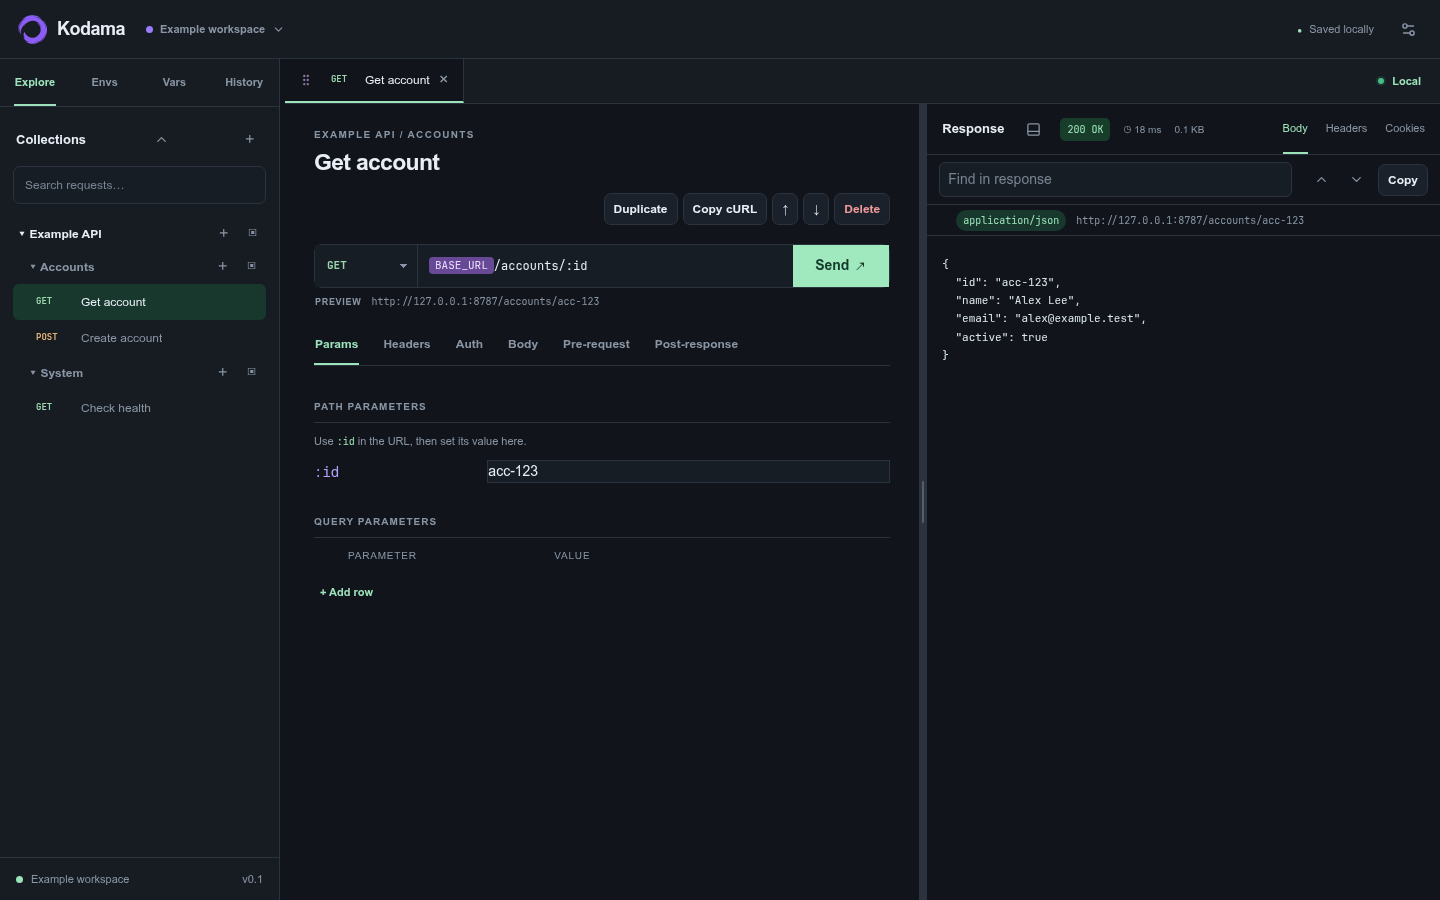
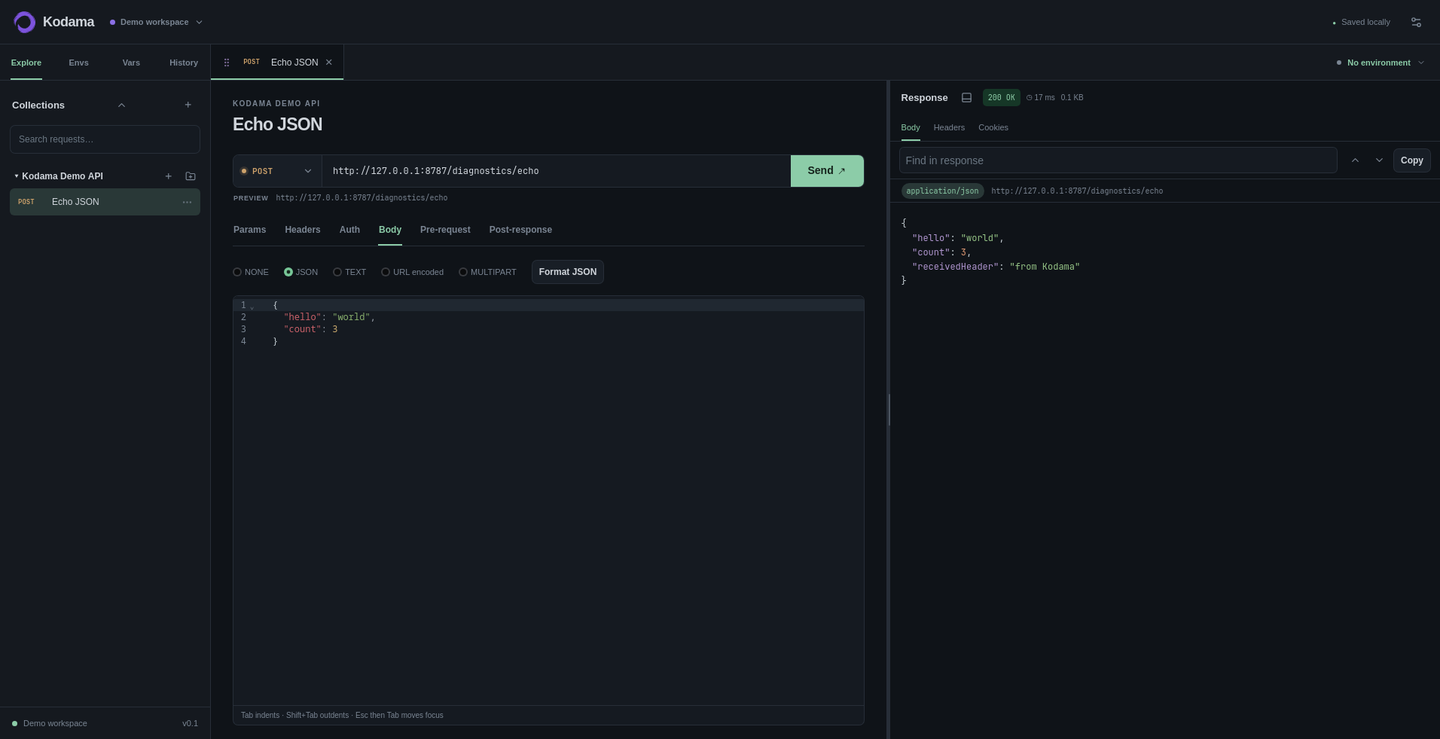
docs(release): refresh screenshots and patch note guidance

diff --git a/README.md b/README.md
@@ -4,7 +4,7 @@ Kodama is a local-first desktop HTTP client for saving, organizing, and running
 REST requests. It uses a React web interface in a Tauri 2 desktop window. HTTP
 requests and JavaScript scripts run in Rust, outside the WebView.
 
-![Kodama request workspace](assets/screenshots/workspace.png)
+![Kodama JSON request and bottom-docked response](assets/screenshots/workspace.png)
 
 The response can sit below the editor or on the right, and both layouts are resizable.
 
@@ -54,15 +54,16 @@ bun run tauri build
 
 ## Download desktop builds
 
-Open **Actions → Build desktop application** in the GitHub repository and select
-**Run workflow**. The workflow also runs when a `v*` tag is pushed. After both
-jobs finish, download **kodama-windows** (NSIS `.exe`) or **kodama-appimage**
-(`.AppImage`) from the run's **Artifacts** section. These builds are unsigned and
-are not published as GitHub Releases.
+Download the latest Windows NSIS installer (`.exe`), macOS disk image (`.dmg`),
+or Linux AppImage from [GitHub Releases](https://github.com/gustawalk/kodama/releases).
+Version tags trigger the release workflow, which publishes these downloads and
+an updater manifest with signed update artifacts. A manual run of **Actions →
+Build and release desktop application** creates temporary workflow artifacts
+without publishing a release.
 
 ## Features
 
-- Collections, folders, saved requests, tabs, search, duplication, pointer drag ordering with edge scrolling,
+- Collections, folders, saved requests, tabs, search, duplication, context-menu renaming, pointer drag ordering with edge scrolling,
   and expandable session history with URL, timestamp, size, and response access.
 - HTTP methods, `:id` path parameters, URL and query parameters, enabled headers, Basic and Bearer
   auth, JSON/text bodies, URL-encoded forms, and text multipart fields.
@@ -80,7 +81,8 @@ are not published as GitHub Releases.
   scrolling. Hover a suggestion or variable to see its value.
 - JSON is the default body mode for new requests. The body and script editors
   use CodeMirror for syntax highlighting, indentation with Tab, and JSON
-  diagnostics. Empty JSON bodies send no body. Use **Format JSON** to pretty-print.
+  diagnostics and selectable variable references. Empty JSON bodies send no body.
+  Use **Format JSON** to pretty-print.
 - Versioned Kodama JSON import/export with merge or replace. Imported scripts
   remain disabled until individually trusted.
 - Import common cURL commands and copy a saved request as cURL. Import OpenAPI
@@ -111,7 +113,8 @@ are not published as GitHub Releases.
 Kodama checks GitHub Releases for signed updates when the desktop app starts.
 Settings > General shows the installed version and lets you check again. A new
 version is installed only after you review its release notes and confirm.
-The release workflow builds signed Windows NSIS, macOS, and Linux AppImage
+Use **View patch notes** in Settings > General to revisit notes for this and earlier versions.
+The release workflow builds Windows NSIS, macOS, and Linux AppImage
 downloads, publishes `updater.json` with release notes, and deletes temporary
 workflow artifacts after publication. Configure the repository secrets
 `KODAMA_TAURI_SIGNING_PRIVATE_KEY` and
@@ -119,6 +122,39 @@ workflow artifacts after publication. Configure the repository secrets
 Keep the private key and password backed up outside the repository. Each tag
 needs matching versions in `package.json`, `src-tauri/Cargo.toml`, and
 `src-tauri/tauri.conf.json`, plus a `docs/releases/vX.Y.Z.md` notes file.
+The release workflow embeds the matching file from [docs/releases](docs/releases/README.md)
+in the updater manifest.
+
+## Patch notes
+
+<details open>
+<summary>Kodama 1.1.0</summary>
+
+- Rename collections from their right-click menu; double-clicking a collection no longer opens the rename dialog.
+- Select and edit text across variable references in JSON request bodies and scripts.
+- Start resizing the sidebar only when the pointer press begins on its divider.
+- Open the patch note history from Settings > General, with the newest version expanded and older versions collapsed.
+
+</details>
+
+<details>
+<summary>Kodama 1.0.0</summary>
+
+- Restore open request tabs, including pinned tabs, when Kodama starts again.
+- Check for signed updates from Settings > General or automatically at startup.
+- Review release notes and choose when to install an available update.
+- Refined the version panel and update prompt for clearer release information.
+
+</details>
+
+<details>
+<summary>Kodama 0.1.0</summary>
+
+- Added signed in-app update checks when Kodama opens and a manual check in Settings > General.
+- Updates now show release notes and require your confirmation before installation.
+- Open request tabs, including ordinary and pinned tabs, are restored after restarting Kodama.
+
+</details>
 
 ## Variables and scripts
 
@@ -209,8 +245,8 @@ WebSocket, cloud sync, Postman file compatibility, proxy settings, or multipart
 file attachments. The cookie jar and request history last for the app session.
 The script engine has
 operation/size limits but no hard wall-clock kill for every possible JavaScript
-expression. Native builds are verified on Linux; Windows and macOS builds
-require their respective hosts and Tauri prerequisites.
+expression. The release workflow builds on Windows, macOS, and Linux hosts.
+Local builds require the Tauri prerequisites for the current host.
 
 ## Development checks
 

diff --git a/docs/releases/README.md b/docs/releases/README.md
@@ -1,3 +1,34 @@
-# Release notes
+# Patch notes
 
-Before pushing a `vX.Y.Z` tag, add `docs/releases/vX.Y.Z.md` with the changes users should see in Kodama's update prompt. Keep `package.json`, `src-tauri/Cargo.toml`, and `src-tauri/tauri.conf.json` at `X.Y.Z`. The release workflow requires a nonempty notes file and signed installers for Windows, Linux, and macOS.
+<details open>
+<summary>Kodama 1.1.0</summary>
+
+- Rename collections from their right-click menu; double-clicking a collection no longer opens the rename dialog.
+- Select and edit text across variable references in JSON request bodies and scripts.
+- Start resizing the sidebar only when the pointer press begins on its divider.
+- Open the patch note history from Settings > General, with the newest version expanded and older versions collapsed.
+
+</details>
+
+<details>
+<summary>Kodama 1.0.0</summary>
+
+- Restore open request tabs, including pinned tabs, when Kodama starts again.
+- Check for signed updates from Settings > General or automatically at startup.
+- Review release notes and choose when to install an available update.
+- Refined the version panel and update prompt for clearer release information.
+
+</details>
+
+<details>
+<summary>Kodama 0.1.0</summary>
+
+- Added signed in-app update checks when Kodama opens and a manual check in Settings > General.
+- Updates now show release notes and require your confirmation before installation.
+- Open request tabs, including ordinary and pinned tabs, are restored after restarting Kodama.
+
+</details>
+
+## Preparing a release
+
+Before pushing a `vX.Y.Z` tag, add `docs/releases/vX.Y.Z.md` with the changes users should see in Kodama's update prompt. Keep the patch note lists here and in the README in sync, with only the newest `<details>` open. Keep `package.json`, `src-tauri/Cargo.toml`, and `src-tauri/tauri.conf.json` at `X.Y.Z`. The release workflow requires a nonempty notes file and updater signatures for the Windows, Linux, and macOS assets.

diff --git a/.notebook/updater-release.md b/.notebook/updater-release.md
@@ -1,8 +1,9 @@
 # Signed desktop updates
 
 - `src/useUpdater.ts` checks Tauri's configured updater endpoint on packaged startup and from Settings > General. The update prompt shows `Update.body` and installation only starts after confirmation.
-- `src/App.tsx` has a development-only update preview switch in General. Enabling it arms a sample response; clicking Check for updates shows the sample version and opens the same prompt with installation disabled. The preview never calls the updater plugin.
 - `src-tauri/tauri.conf.json` embeds Kodama's updater public key and the GitHub Release `updater.json` endpoint. The corresponding private key is kept outside Git and supplied to CI through `KODAMA_TAURI_SIGNING_PRIVATE_KEY` and `KODAMA_TAURI_SIGNING_PRIVATE_KEY_PASSWORD`.
 - `.github/workflows/build-desktop.yml` builds signed NSIS, macOS app archive, and AppImage artifacts. `scripts/generate-updater-manifest.mjs` requires a signature and release notes for each platform before publishing the manifest.
 - Keep frontend and Rust plugin minor versions aligned. The Tauri bundler rejects mismatched `@tauri-apps/plugin-*` and `tauri-plugin-*` versions.
 - `src/App.css` has theme-level `html[data-kodama-theme] [data-slot="alert-dialog-content"]` rules after component styles. Keep update dialog overrides below those rules so its width and interior padding are not replaced by the shared alert dialog styling.
+- Release preparation aligns `package.json`, `src-tauri/Cargo.toml`, `src-tauri/Cargo.lock`, and `src-tauri/tauri.conf.json`; the tag's `docs/releases/vX.Y.Z.md` is the update prompt body. The README and `docs/releases/README.md` keep newest notes open in `<details>` and older notes closed.
+- `src/releaseNotes.ts` bundles versioned Markdown notes as raw text for the Settings > General history dialog. Add the next release file to its import list when preparing a version.
